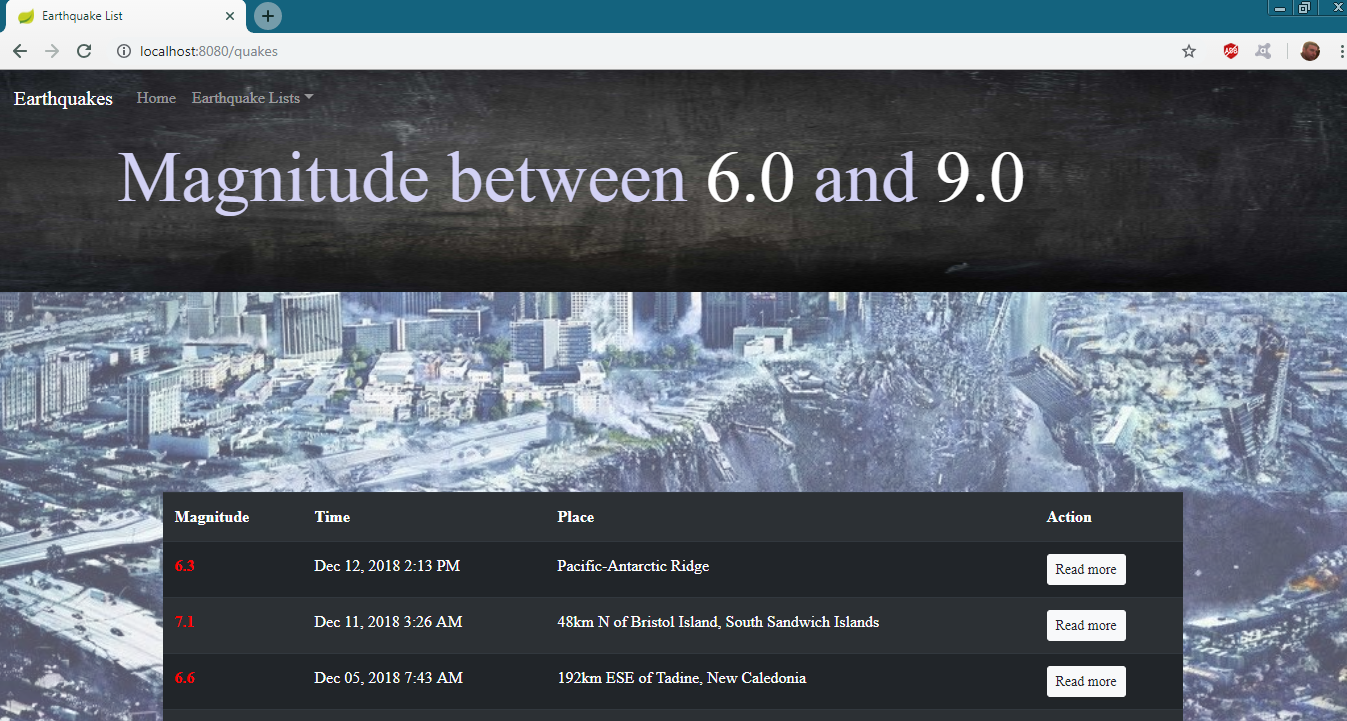
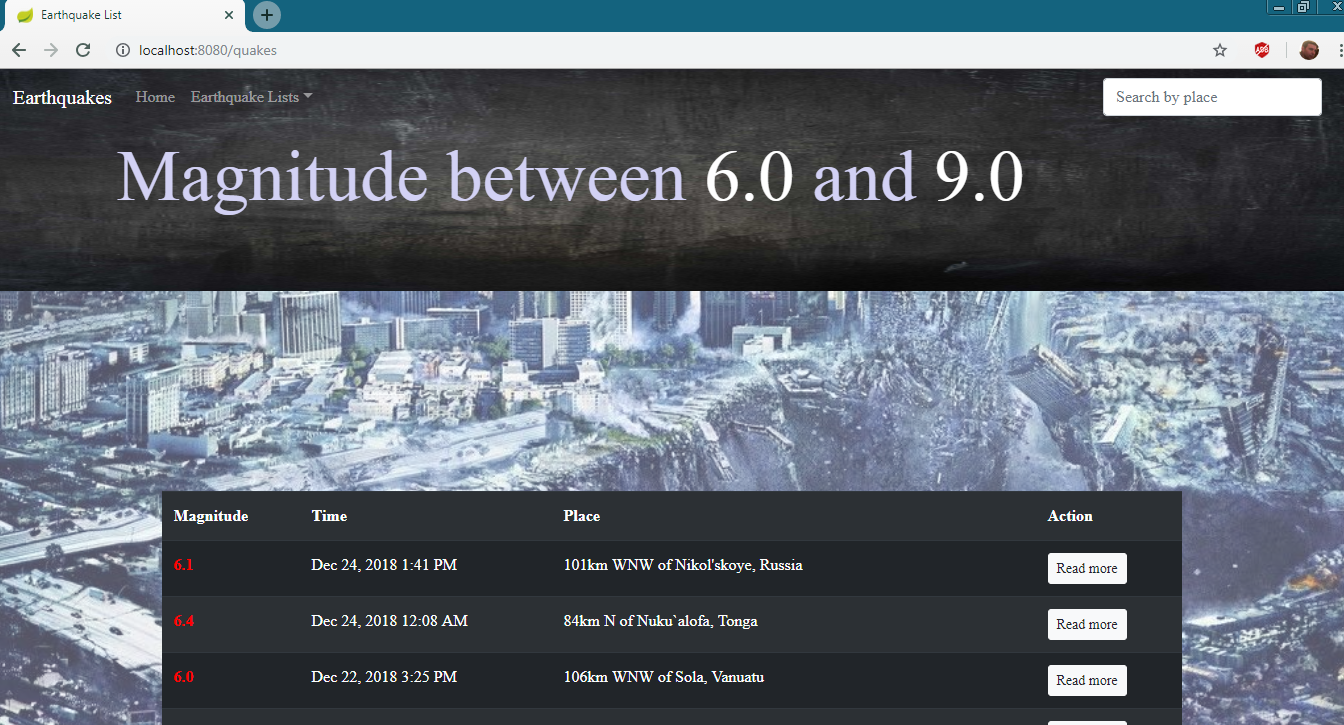
add search

diff --git a/src/main/resources/templates/quake_list.html b/src/main/resources/templates/quake_list.html
@@ -11,6 +11,7 @@
     <script src="https://maxcdn.bootstrapcdn.com/bootstrap/4.1.3/js/bootstrap.min.js"></script>
     <link rel="stylesheet" th:href="@{/css/quake.css}"/>
     <script th:src ="@{/js/quake.js}"></script>
+    <script th:src ="@{/js/search.js}"></script>
 
 </head>
 <body>
@@ -36,6 +37,9 @@
                 </div>
             </li>
         </ul>
+        <form class="form-inline my-2 my-lg-0">
+            <input class="form-control mr-sm-2" type="text" id="myInput" onkeyup="myFunction()" placeholder="Search by place" aria-label="Search">
+        </form>
     </div>
 </nav>
 <div class="jumbotron jumbotron-fluid">
@@ -43,10 +47,11 @@
         <h1 class="display-3" style="font-family: 'sans-serif'">Magnitude between <span style="color:white" th:text="${mag[0]}"/> and <span style="color:white" th:text="${mag[1]}"/></span></h1>
     </div>
 </div>
+
 <section class="module parallax2 parallax-1" data-type="background" data-speed="10">
     <div class="parallax-container">
         <div style="padding:0 20px">
-            <table style="font-family: 'sans-serif'" class="table table-striped table-dark">
+            <table id="myTable21" style="font-family: 'sans-serif'" class="table table-striped table-dark">
                 <tr>
                     <th>Magnitude</th>
                     <th>Time</th>

diff --git a/src/main/resources/static/js/search.js b/src/main/resources/static/js/search.js
@@ -1,0 +1,18 @@
+function myFunction() {
+    var input, filter, table, tr, td, i, txtValue;
+    input = document.getElementById("myInput");
+    filter = input.value.toUpperCase();
+    table = document.getElementById("myTable21");
+    tr = table.getElementsByTagName("tr");
+    for (i = 0; i < tr.length; i++) {
+        td = tr[i].getElementsByTagName("td")[2];
+        if (td) {
+            txtValue = td.textContent || td.innerText;
+            if (txtValue.toUpperCase().indexOf(filter) > -1) {
+                tr[i].style.display = "";
+            } else {
+                tr[i].style.display = "none";
+            }
+        }
+    }
+}

diff --git a/src/main/resources/static/js/quake.js b/src/main/resources/static/js/quake.js
@@ -32,5 +32,6 @@ $(document).ready(function(){
         else{
             $(".navbar").removeClass("bg-secondary");
         }
-    })
-})
+    });
+});
+
